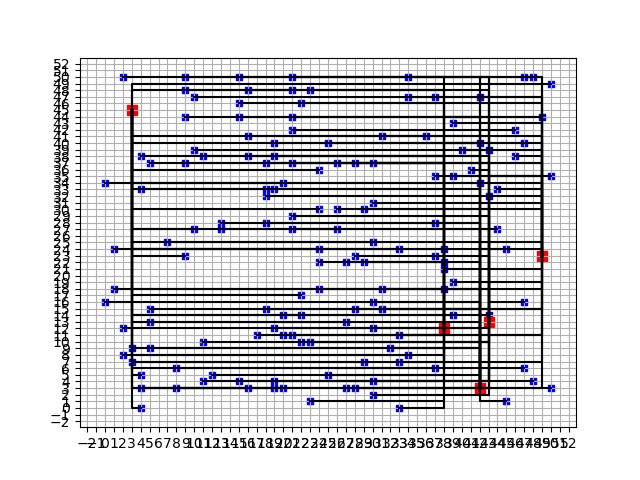
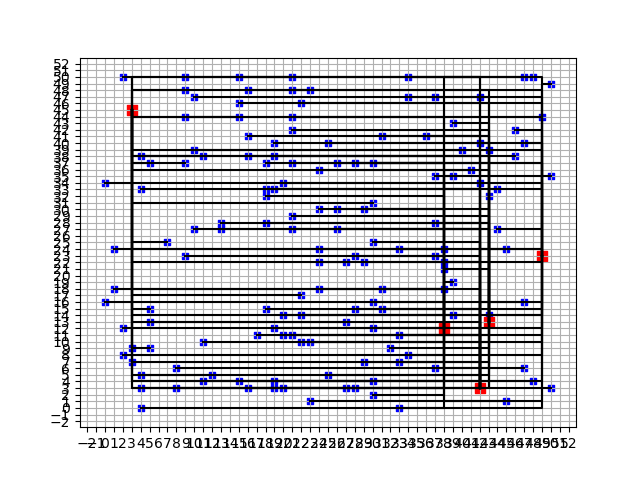
adding random iteration in wires, stopping program when no valid grid

diff --git a/wires.py b/wires.py
@@ -32,41 +32,31 @@ class Wires():
                  batteries: Type[Batteries]) -> None:
         """Generate the wires between the houses and the batteries"""
 
-        # Get coordinates for all houses and batteries
-        houses_with_coords = {house: house.position for house in houses.get_members()}                 # noqa: E501
-        batteries_with_coords = {battery: battery.position for battery in batteries.get_members()}     # noqa: E501
-
-        # TODO shuffle dictionary
-        # # Put both dictionaries through the scheduler
-        # coords_houses = schedule(coords_houses)
-        # coords_batteries = schedule(coords_batteries)
+        # Get random order for iterating houses and batteries
+        random_order_houses = houses.shuffle_order()
+        random_order_batteries = batteries.shuffle_order()
 
         wire_id = 0
-        iterations = 0
+        for index_house in random_order_houses:
+            house = houses.dict_houses[index_house]
+            house_coord = house.position
+            has_battery = False
+            for index_battery in random_order_batteries:
+                battery = batteries.dict_batteries[index_battery]
+                battery_coord = battery.position
+                if battery.can_connect(house.max_output):
+                    self.connect(house, battery)
+                    wire_path = find_path(house_coord, battery_coord)
+                    # Make new wire
+                    wire = Wire(wire_id, house, battery, wire_path)
+                    self.add(wire)
+                    wire_id += 1
+                    has_battery = True
+                    break
 
-        # !!! the while-loop seems unnecessary for our random-version !!!
-
-        while True:
-            # Pairing Algorithm
-            # Iterate through houses
-            for house, house_coord in houses_with_coords.items():
-                for battery, battery_coord in batteries_with_coords.items():
-                    if battery.can_connect(house.max_output):
-                        break
-                break
-            # Remove connected house from houses dictionary
-            houses_with_coords.pop(house)
-
-            self.connect(house, battery)
-            wire_path = find_path(house_coord, battery_coord)
-            # Make new wire
-            wire = Wire(wire_id, house, battery, wire_path)
-            self.add(wire)
-            wire_id += 1
-
-            # Break if all houses are connected or iterations > 250
-            if houses.all_houses_connected() or iterations > 250:
-                break
+            if has_battery is False:
+                return False
+        return True
 
     def add(self, wire) -> None:
         self.wires[wire.id] = wire

diff --git a/main.py b/main.py
@@ -15,14 +15,15 @@ def main(houses_input: str, batteries_input: str, output: str) -> float:
     wires = Wires()
 
     # Generate wires
-    wires.generate(houses, batteries)
+    if wires.generate(houses, batteries) is False:
+        return print("No Valid Grid")
 
     # Plot grid and save
     visualize_grid(houses.get_member_coords(),
                    batteries.get_member_coords(),
                    wires.get_paths())
 
-    return calculate_cost(houses, batteries)
+    return print(calculate_cost(houses, batteries))
 
 
 if __name__ == "__main__":

diff --git a/batteries.py b/batteries.py
@@ -41,6 +41,7 @@ class Batteries:
 
     def shuffle_order(self) -> None:
         random.shuffle(self.order)
+        return self.order
 
     def get_members(self):
         return self.dict_batteries.values()

diff --git a/houses.py b/houses.py
@@ -42,6 +42,7 @@ class Houses():
 
     def shuffle_order(self):
         random.shuffle(self.order)
+        return self.order
 
     def get_members(self):
         return self.dict_houses.values()
